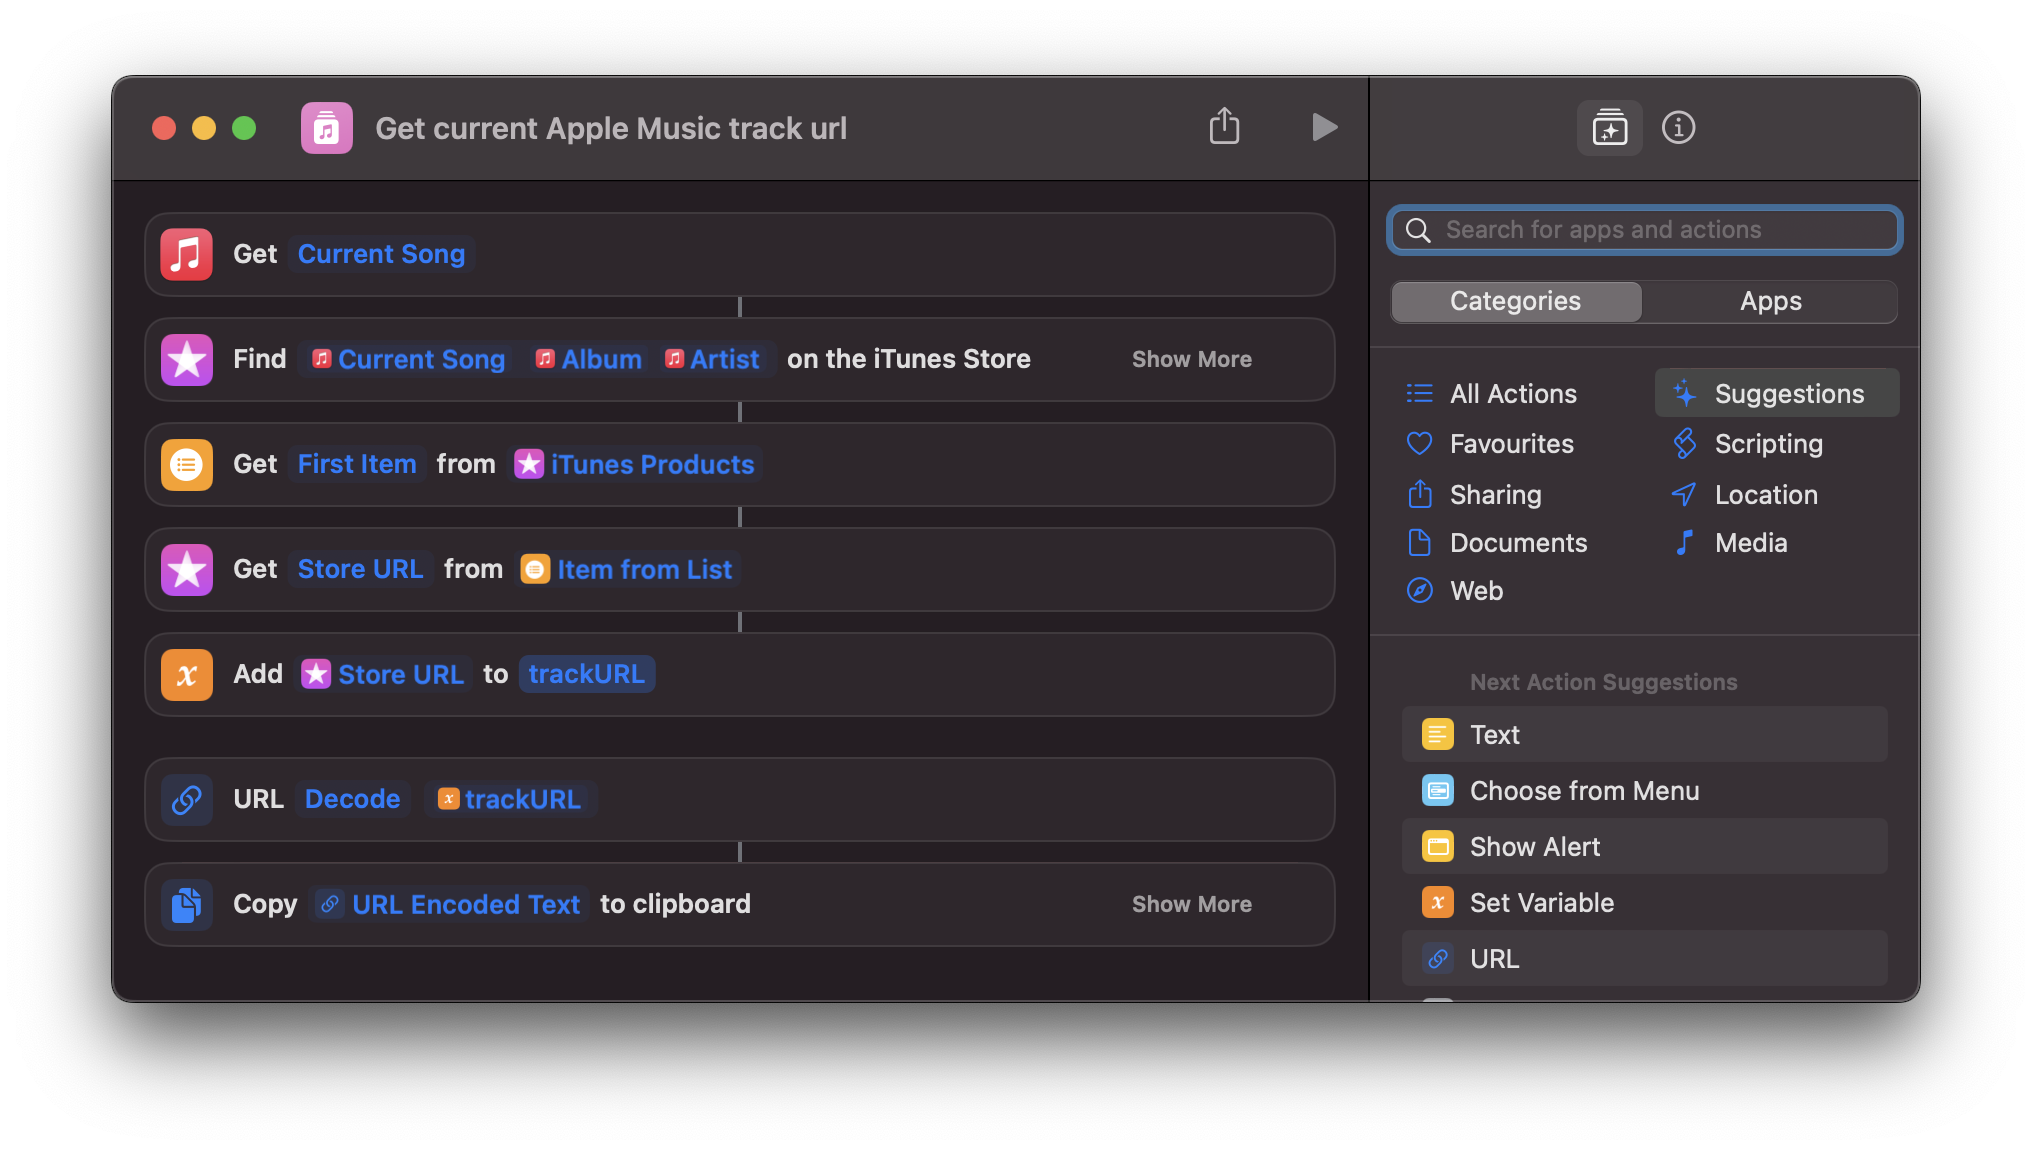
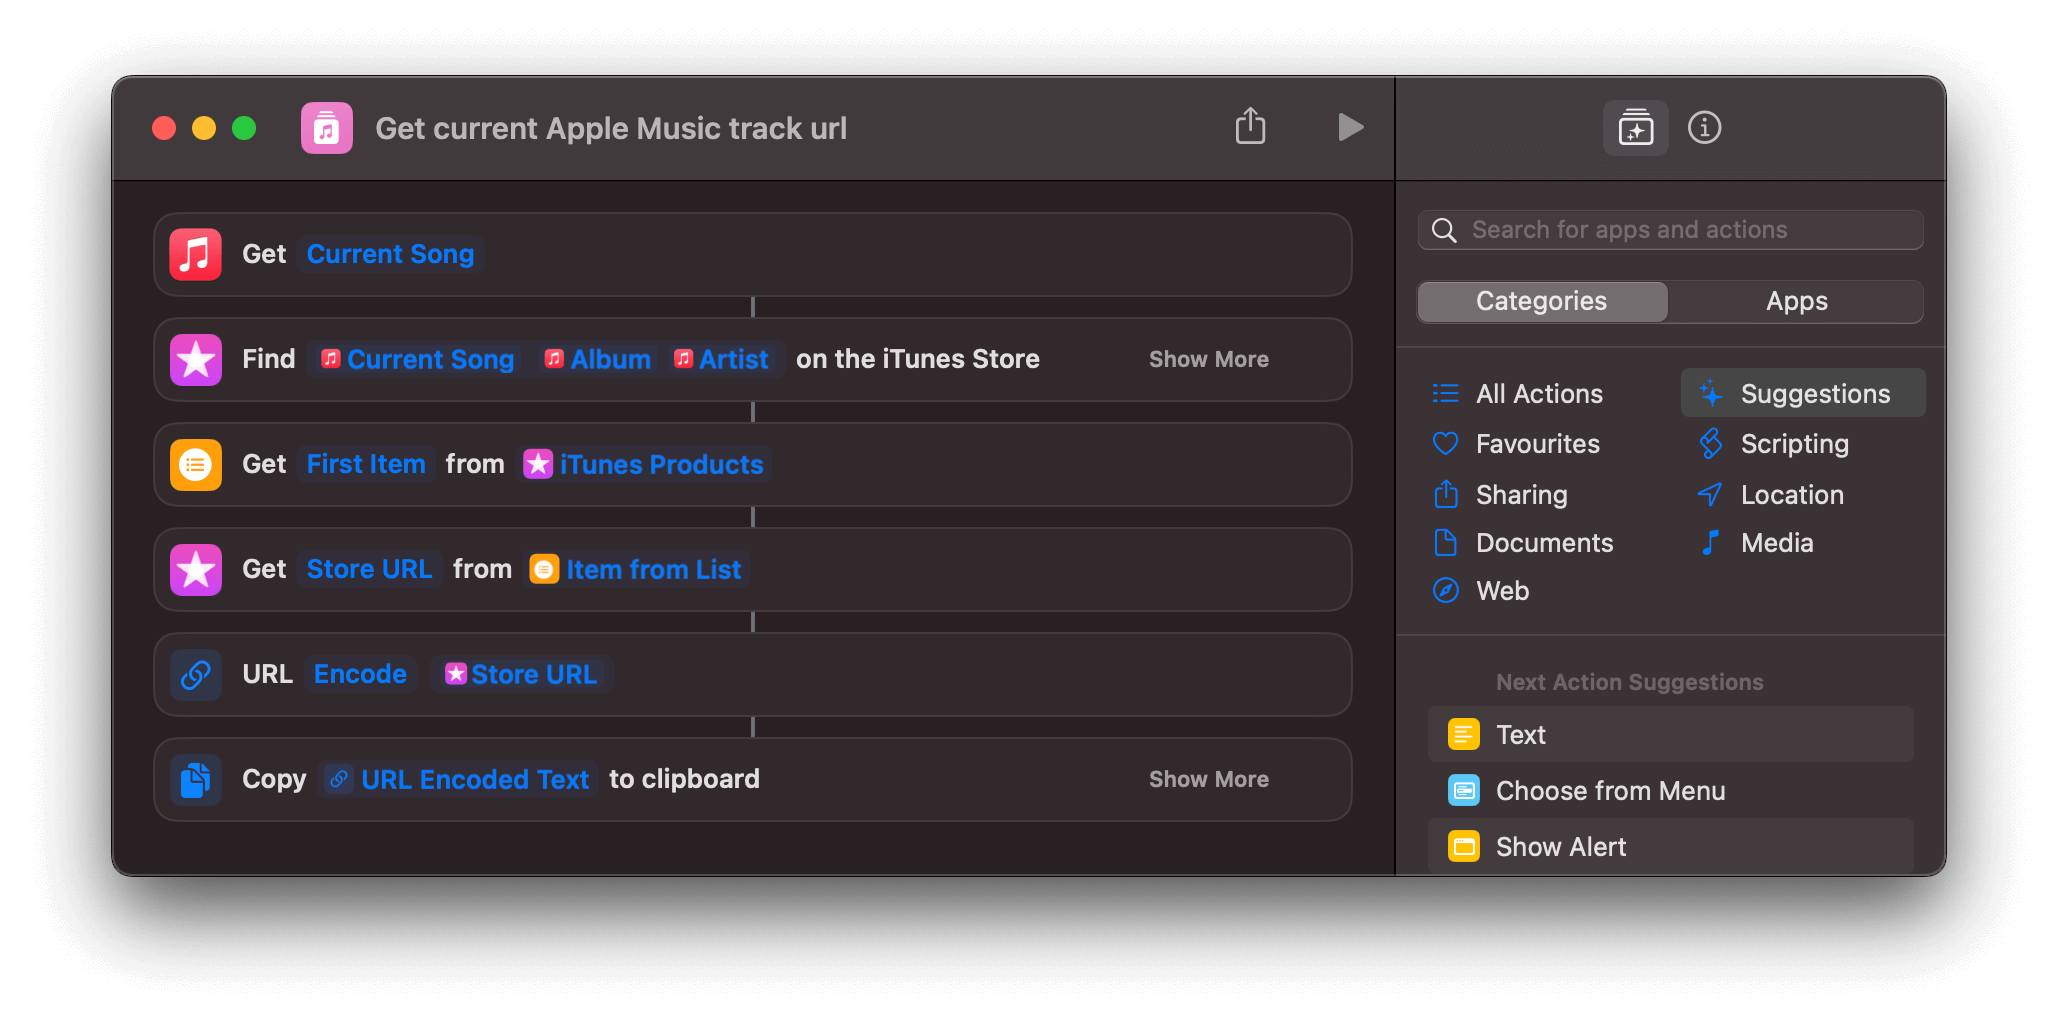
fix: rethink the app-detect stuff and better manage the Music link

diff --git a/README.md b/README.md
@@ -30,32 +30,36 @@ This is the template used to compose the final string. ~~The URL will only appea
  #Spotify #NowPlaying
  ```
 
-## Supported Applications
+## Works With installed Applications
 
 <img src="./assets/spotify.png" alt="Spotify icon with three black emitting waves on a green circle" title="Spotify icon" width="50">
-<img src="./assets/apple-music.png" alt="Apple Music icon with a white eighth note on a rounded red square with rounded edges" title="Apple Music icon" width="50">
+<img src="./assets/apple-music.png" alt="Apple Music icon with a white eighth note on a rounded red square with rounded edges" title="Apple Music icon" width="50">  
+
+> 👉 Apps must be installed; the workflow is not compatible with their web version.
 
 ## 😱 Dependencies
 
 <img src="./assets/apple-shortcuts.png" alt="Apple Shortcuts app icon, consisting of two rounded diamonds stacked on top of each other with transparency, on a dark blue rectangular background with rounded edges" title="Apple Shortcuts icon" width="55">
 
-To obtain the Apple Music URL, I haven't found any other way than using an Apple shortcut that achieves the magic and copies the link to the clipboard. **You can download it from [this iCloud link](https://www.icloud.com/shortcuts/f61aa9526e344714b7f0581146e2a8bc)**.
+To obtain the Apple Music URL, I haven't found any other way than using an Apple shortcut that achieves the magic and copies the link to the clipboard. **You can download it from [this iCloud link](https://www.icloud.com/shortcuts/651f3e461698422da240c7d1c217688b)**.
 
-![Steps of the shortcut to obtain the URL of the currently playing song on Apple Music. Retrieve song data, search for the URL, store it in a variable called "trackURL," and copy it to the clipboard](./assets/shortcut.png "THE MAGIC")
+![Steps of the shortcut to obtain the URL of the currently playing song on Apple Music. Retrieve song data, search for the URL, store it in a variable called "trackURL", clean and copy it to the clipboard](./assets/shortcut.png "THE MAGIC")
+
+> 🤦♂ Apple Music doesn't always find the current track link because, you know, it's Apple.
 
 ---
 
 ## Installation
 
 1. Download the [linked shortcut](https://www.icloud.com/shortcuts/f61aa9526e344714b7f0581146e2a8bc) and add it to your shortcuts library.
-
 2. Download [the .alfredworkflow file](./dist/Nowplaying%20for%20Alfred.alfredworkflow) or get it from the **dist/** folder, double click it, and add it to your workflows.
+3. Link the appropriate script based on whether you are using Spotify or Apple Music.  ![Steps of the workflow: detect the application and take one path or another to compose the chain to share. Highlight the App script node for review.](./assets/workflow-app.png "Alfred Workflow")
+4. Check that the new shortcut is properly linked in the workflow, and that's it. You are good to go!  ![Steps of the workflow: detect the application and take one path or another to compose the chain to share. Highlight the Apple shortcut node for review.](./assets/workflow-shortcut.png "Alfred Workflow")
 
-3. Check that the new shortcut is properly linked in the workflow, and that's it. You are good to go!
 
-![Steps of the workflow: detect the application and take one path or another to compose the chain to share. Highlight the Apple shortcut node for review.](./assets/workflow-shortcut.png "Alfred Workflow")
 
 ## Run it
 
 1. Play some of your stuff on Apple Music or Spotify.
-2. Launch Alfred, type `now`, hit enter and the composed string should be in your clipboard in no time ;)
+2. Launch Alfred, type `now`, hit enter and as soon as you see the Done! alert, the composed string should be in your clipboard ;)
+3. Enjoy!
